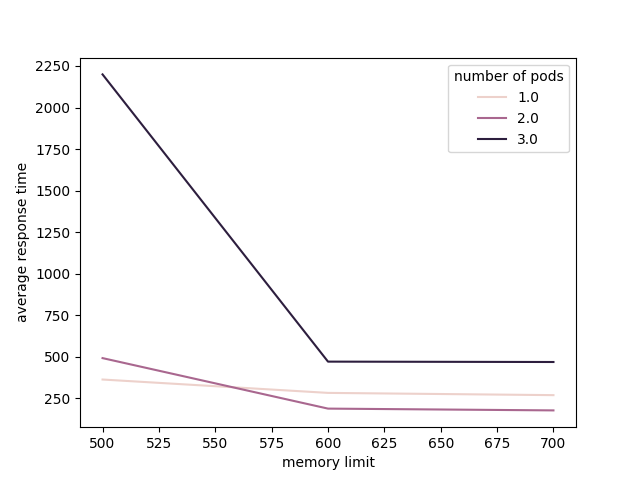
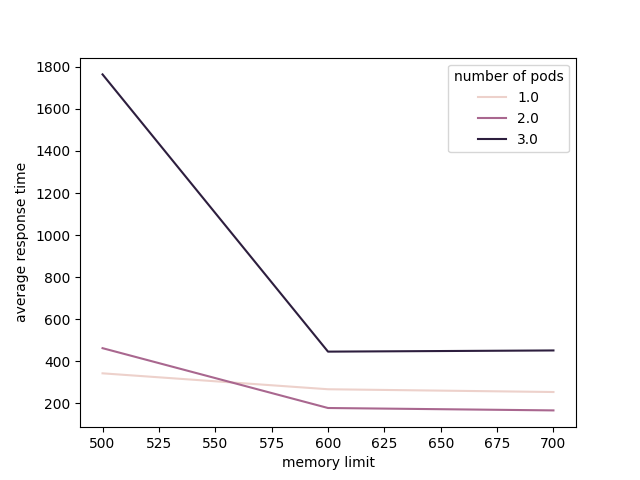
filter status < 300 requests

diff --git a/formatting.py b/formatting.py
@@ -186,6 +186,9 @@ def filter_data(directory: str) -> pd.DataFrame:
     # filter for pod name
     filtered_data["pod"] = filtered_data["pod"].str.split("-", n=2).str[1]
     custom["pod"] = custom["pod"].str.split("-", n=2).str[1]
+    # only take latency where status code < 300
+    filtered_data = filtered_data.fillna(0)
+    filtered_data = filtered_data.loc[filtered_data['status_code'].astype('int') < 300]
     # create pivot tables
     filtered_data = pd.pivot_table(filtered_data, index=["Iteration", "pod"], columns=["__name__"],
                                    values="value").reset_index()

diff --git a/k8s_tools.py b/k8s_tools.py
@@ -393,6 +393,3 @@ def get_resource_requests() -> dict:
         resources = deployment.spec.template.spec.containers[0].resources.requests
         resource_requests[i.metadata.name] = resources
     return resource_requests
-
-if __name__ == '__main__':
-    k8s_create_teastore()
